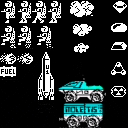
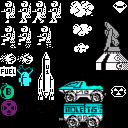
Add alien base, change dir variable to speed

diff --git a/jetman/jetman.cpp b/jetman/jetman.cpp
@@ -9,20 +9,18 @@ using namespace blit;
 
 Surface *backdrop;
 
-int delay;
-int dir,fire,playerdied;
+int delay,dir,fire,playerdied;
 int ground = 200;
 
-float missiletime = 170;
-float flytime = 170;
+float missiletime,flytime;
 
 Vec2 screenpos;
 
 int terrain[400];
 
 #define NUMALIENS 4
-struct sprite_t { Rect sprite; Vec2 pos; Vec2 dir ; Pen color; int attached; int driving; int flip;};
-sprite_t alien[NUMALIENS],truck,trailer,fuel,player;
+struct sprite_t { Rect sprite; Vec2 pos; Vec2 speed; Pen color; int attached; int driving; int dir;};
+sprite_t alien[NUMALIENS],truck,trailer,fuel,player,missile,alienbase,basecannon;
 
 //sprite costumes
 Rect costume;
@@ -65,13 +63,13 @@ void playerhitplatform (Vec3 platform){
     int ypos = platform.y;
 
     // if hitting underside, bounce down
-    if ((player.dir.y < 0) && (abs(player.pos.y - ypos)) < 3) { 
-	player.pos.y = ypos + 3; player.dir.y = 6;}
+    if ((player.speed.y < 0) && (abs(player.pos.y - ypos)) < 3) { 
+	player.pos.y = ypos + 3; player.speed.y = 6;}
 
     // if on top, land
     ypos -= 25;
-    if ((player.dir.y > 0) && (abs(player.pos.y - ypos)) < 5) { 
-	player.pos.y = ypos - 1; player.dir.y = 0;}
+    if ((player.speed.y > 0) && (abs(player.pos.y - ypos)) < 5) { 
+	player.pos.y = ypos - 1; player.speed.y = 0;}
   }
 }
 
@@ -92,11 +90,11 @@ Vec3 laser;
 void newalien (int n) {
   alien[n].color = colors[1 + RND(6)] ;
   alien[n].pos = Vec2(screen.bounds.w, RND(screen.bounds.h));
-  alien[n].dir = Vec2(-1, 0.1f + (RND(5) / 5.0f ));
+  alien[n].speed = Vec2(-1, 0.1f + (RND(5) / 5.0f ));
 
   if ( RND(2) ) { // opposite side of screen
   	alien[n].pos.x = 0;
-  	alien[n].dir.x *= -1;
+  	alien[n].speed.x *= -1;
   	}
 }
 
@@ -137,16 +135,22 @@ void init() {
   //make black transparent
   screen.sprites->palette[0] = Pen(0,0,0,0); 
 
-  fuel.sprite = Rect(0,8,3,2);
+  //fuel.sprite = Rect(0,8,3,2);
+  fuel.sprite = Rect(0,10,2,2);
   truck.sprite = Rect(7,10,6,3);
   trailer.sprite = Rect(7,13,6,3);
+  basecannon.sprite = Rect(2,8,2,3);
+  alienbase.sprite = Rect(12,3,4,6);
 
   player.pos = Vec2(screen.bounds.w / 2, screen.bounds.h - 50);
   fuel.pos = Vec2(RND(screen.bounds.w),80);
   truck.pos = Vec2(50,ground);
   trailer.pos = Vec2(500,ground);
-  screenpos = Vec2(0,ground);
+  missile.pos = Vec2(1500,100);
+  basecannon.pos = Vec2(600,ground);
+  alienbase.pos = Vec2(670,ground - 25);
 
+  missiletime = flytime = 170;
   for (int n=0;n<NUMALIENS;n++) { newalien(n); }
   //scale to different screen sizes
   for (Vec3 &plat : platforms) {
@@ -172,14 +176,33 @@ void render(uint32_t time) {
   screen.pen = black;
   screen.rectangle(Rect(90 + flytime,20, 170-flytime, 11));
   screen.rectangle(Rect(90 + missiletime,38, 170-missiletime, 11));
+  if (missiletime < 0)  {
+	  screen.pen = colors[RND(8)];
+  	  screen.rectangle(Rect(90 + missiletime,38, 170-missiletime, 11));
+  }
 
   // direction indicator to truck location
   screen.pen = yellow;
   if (truck.pos.x < screenpos.x) screen.circle(Vec2(30,38),3);
   if (truck.pos.x > screenpos.x) screen.circle(Vec2(55,38),3);
 
-  screen.sprite(truck.sprite,Vec2(truck.pos.x - screenpos.x,ground),truck.flip);
-  screen.sprite(trailer.sprite,Vec2(trailer.pos.x - screenpos.x,ground),trailer.flip);
+  // direction indicator to truck location
+  screen.pen = yellow;
+  if (truck.pos.x < screenpos.x) screen.circle(Vec2(30,38),3);
+  if (truck.pos.x > screenpos.x) screen.circle(Vec2(55,38),3);
+
+  // truck and trailer
+  screen.sprite(truck.sprite,truck.pos - screenpos,truck.dir);
+  screen.sprite(trailer.sprite,trailer.pos - screenpos,trailer.dir);
+
+  // alien base
+  screen.sprite(alienbase.sprite,alienbase.pos - screenpos);
+  screen.sprite(basecannon.sprite,basecannon.pos - screenpos);
+  screen.sprite(basecannon.sprite,basecannon.pos + Vec2(150,0) - screenpos);
+
+  // missile
+  screen.pen = colors[RND(8)];
+  screen.rectangle(Rect(missile.pos.x - screenpos.x,missile.pos.y,50,10));
 
   // draw player 
   colorsprites(white);
@@ -190,14 +213,14 @@ void render(uint32_t time) {
 
   // Fuel pod
     colorsprites(magenta);
-    screen.sprite(fuel.sprite,Vec2(fuel.pos.x - screenpos.x, fuel.pos.y));
+    screen.sprite(fuel.sprite,fuel.pos - screenpos);
 
   // Aliens
   for (int n=0; n < NUMALIENS; n++) {
   	costume = meteor[RND(2)];
   	colorsprites(alien[n].color);
-	int flip = alien[n].dir.x < 0;
-  	screen.sprite(costume,alien[n].pos,flip);
+	int dir = alien[n].speed.x < 0;
+  	screen.sprite(costume,alien[n].pos,dir);
   }
 }
 
@@ -205,13 +228,13 @@ void read_buttons() {
 Vec2 move = joystick;
 
  if (pressed(Button::DPAD_LEFT) || move.x < 0) {
-	player.dir.x--;
+	player.speed.x--;
 	dir = LEFT; }
  if (pressed(Button::DPAD_RIGHT) || move.x > 0) {
-	player.dir.x++;
+	player.speed.x++;
 	dir = RIGHT; }
  if (pressed(Button::DPAD_UP) || pressed(Button::A) || move.y < 0) 
-	 player.dir.y = -1.5f;
+	 player.speed.y = -1.5f;
  if (pressed(Button::B) || pressed(Button::Y)) fire = 1;
  else fire = 0;
 }
@@ -219,30 +242,27 @@ Vec2 move = joystick;
 void update(uint32_t time) {
 
   playerdied = 0;
-  screenpos.x += player.dir.x / 6;
-  player.pos.y += player.dir.y;
-  player.dir *= 0.9f;
-  player.dir.y += 0.5f; // gravity
+  screenpos.x += player.speed.x / 4;
+  player.pos.y += player.speed.y;
+  player.speed *= 0.9f;
+  player.speed.y += 0.5f; // gravity
 
   read_buttons();
   if (missiletime > 0) missiletime -= 0.05f;
 
   // flying uses energy, recovers on ground 
-  if (player.pos.y < ground) flytime -= 0.1f;
+  if (player.pos.y < ground) flytime -= 0.01f;
   if (player.pos.y > ground) flytime += 0.1f;
-  if (flytime > 170) flytime = 170;
-  if (flytime < 0) player.dir.y = 8;
+  if (flytime < 0) player.speed.y = 8;
 
   for (Vec3 plat : platforms) 
 	playerhitplatform(plat);
 
-  //bounce from top of screen
-  if (player.pos.y < 45) player.pos.y -= player.dir.y;
   if (player.pos.y > ground + 10) player.pos.y = ground; 
   
   // walk on ground
   int px = (int) screenpos.x;
-  if (player.dir.y  == 0 ) costume = jetmanwalk [( px * 4) % 3]; 
+  if (player.speed.y  == 0 ) costume = jetmanwalk [( px * 4) % 3]; 
   else costume = jetmanfly [RND(2)]; 
 
   // enter / exit truck
@@ -253,36 +273,53 @@ void update(uint32_t time) {
   // jump to exit truck
   if (truck.driving) {
 	  truck.pos.x = screenpos.x + 140;
-	  truck.flip = dir;
+	  truck.dir = dir;
   	  if (player.pos.y < ground - 10) 
 	  	truck.driving = trailer.attached = 0;
   }
   if (!trailer.attached && truck.driving && collide(player.pos, Vec2(trailer.pos.x - screenpos.x - 50,ground))) 
 	  trailer.attached = 1;
   if (trailer.attached) {
-	  	trailer.flip = dir;
+	  	trailer.dir = dir;
   		if (dir == LEFT) trailer.pos.x = screenpos.x + 185;
   		if (dir == RIGHT) trailer.pos.x = screenpos.x + 95;
   }
   //aliens
   for (int n=0; n < NUMALIENS; n++) {
-  	alien[n].pos += alien[n].dir;
+  	alien[n].pos += alien[n].speed;
 	Point pos = alien[n].pos;
-  	if (pos.x < 0 || pos.x > screen.bounds.w )   newalien(n);
+  	if (pos.x < 0 || pos.x > screen.bounds.w ) newalien(n);
   	if (hitplatform(pos)) { splat(n); }
   	if (fire && hitlaser(pos)) { splat(n); }
-	//immune from aliens driving truck
+	//immune from aliens when driving truck
 	if (truck.driving) continue;
   	if (collide (pos, player.pos)) {
 		splat(n); 
 		playerdied = 1;
 		}
   }
-  if (playerdied) flytime = 0;
+  if (playerdied) { 
+	  delay = 100;
+	  flytime = 0;
+  }
+  if (delay) delay--;
+  if (delay == 1) flytime = 170;
+
+   // missile - homes in on truck
+   if (missiletime < 0) {
+   	if (missile.pos.x > truck.pos.x) missile.speed.x = -2;
+   	else missile.speed.x = 0;
+   	if (missile.pos.x - truck.pos.x < 100) missile.speed.y += 0.2;
+   	missile.pos += missile.speed;
+   }
+
+   // drop a bomb on missle to stop it
+   if (!fuel.attached && collide(missile.pos + Vec2(30,0),fuel.pos)) missile.pos.x = 0;
 
   //fuelpods
     if (!hitplatform(fuel.pos)) fuel.pos.y++;
     if (collide(Vec2(fuel.pos.x - screenpos.x ,fuel.pos.y),player.pos) && !truck.driving) fuel.attached = 1; 
-    if (fuel.attached) fuel.pos = (Vec2) player.pos + Vec2(screenpos.x,20);  
+    if (fuel.attached) fuel.pos = player.pos + Vec2(screenpos.x,20);  
     if (pressed(Button::B)) fuel.attached = 0; 
+    //if (playerdied) fuel.pos = truck.pos + Vec2(3,-10);
 }
